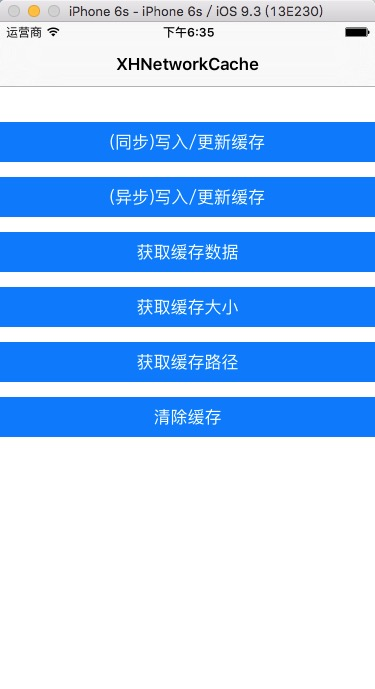
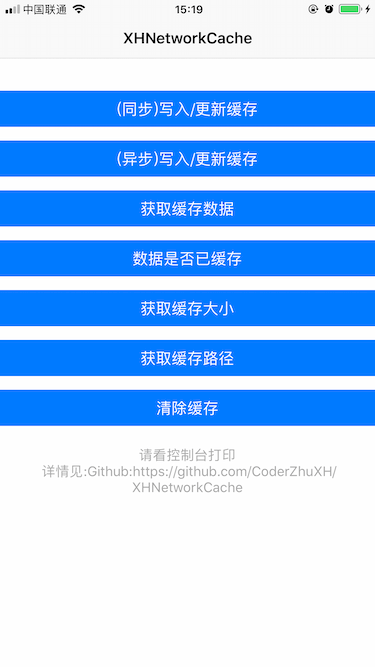
v1.5.0 - 增加检测数据是否已缓存接口

diff --git a/XHNetworkCache/XHNetworkCache.m b/XHNetworkCache/XHNetworkCache.m
@@ -30,7 +30,7 @@
 }
 
 +(void)save_asyncJsonResponseToCacheFile:(id)jsonResponse andURL:(NSString *)URL completed:(nullable XHNetworkCacheCompletionBlock)completedBlock;{
-
+    
     [self save_asyncJsonResponseToCacheFile:jsonResponse andURL:URL params:nil completed:completedBlock];
 }
 
@@ -43,14 +43,14 @@
         dispatch_async(dispatch_get_main_queue(), ^{
             
             if(completedBlock)  completedBlock(result);
-
+            
         });
     });
 }
 
 +(id)cacheJsonWithURL:(NSString *)URL{
     
-   return [self cacheJsonWithURL:URL params:nil];
+    return [self cacheJsonWithURL:URL params:nil];
     
 }
 
@@ -59,12 +59,26 @@
     if(URL==nil) return nil;
     NSString *path = [self cacheFilePathWithURL:URL params:params];
     NSFileManager *fileManager = [NSFileManager defaultManager];
-    if ([fileManager fileExistsAtPath:path isDirectory:nil] == YES) {
+    if([self checkCacheWithURL:URL params:params]){
         NSData *data = [fileManager contentsAtPath:path];
         return [self dataToJson:data];
     }
     return nil;
 }
+
+
++(BOOL)checkCacheWithURL:(NSString *)URL{
+    
+    return [self checkCacheWithURL:URL params:nil];
+}
+
++(BOOL)checkCacheWithURL:(NSString *)URL params:(nullable NSDictionary *)params{
+    if(URL==nil) return NO;
+    NSString *path = [self cacheFilePathWithURL:URL params:params];
+    NSFileManager *fileManager = [NSFileManager defaultManager];
+    return [fileManager fileExistsAtPath:path isDirectory:nil];
+}
+
 
 +(BOOL)clearCache
 {

diff --git a/XHNetworkCache/XHNetworkCache.h b/XHNetworkCache/XHNetworkCache.h
@@ -77,6 +77,20 @@ typedef void(^XHNetworkCacheCompletionBlock)(BOOL result);
  */
 +(id )cacheJsonWithURL:(NSString *)URL params:(nullable NSDictionary *)params;
 
+
+/// 检测是否已缓存该数据
+/// @param URL 数据请求URL
+/// @return YES已缓存, NO未缓存
++(BOOL)checkCacheWithURL:(NSString *)URL;
+
+
+/// 检测是否已缓存该数据
+/// @param URL 数据请求URL
+/// @param params  数据请求参数
+/// @return YES已缓存, NO未缓存
++(BOOL)checkCacheWithURL:(NSString *)URL params:(nullable NSDictionary *)params;
+
+
 /**
  *  获取缓存路径
  *

diff --git a/XHNetworkCacheExample/XHNetworkCacheExample/ViewController.m b/XHNetworkCacheExample/XHNetworkCacheExample/ViewController.m
@@ -98,6 +98,22 @@
     id cacheJson = [XHNetworkCache cacheJsonWithURL:self.URL params:self.params];
     NSLog(@"缓存数据:%@",cacheJson);
 }
+
+/**
+ *  检测数据是否已缓存
+ */
+- (IBAction)checkCache:(UIButton *)sender {
+    
+    BOOL result = [XHNetworkCache checkCacheWithURL:self.URL params:self.params];
+    if(result){
+        NSLog(@"该数据已缓存");
+    }else{
+        NSLog(@"该数据未缓存");
+    }
+}
+
+
+
 /**
  *  缓存数据大小(M)
  */

diff --git a/README.md b/README.md
@@ -17,6 +17,7 @@
 
 ### 更新记录:
 
+*   2020.01.10 -- v1.5.0 -->增加检测该数据是否已缓存接口...
 *   2017.09.30 -- v1.4.0 -->已知问题修复及优化...
 *	2017.06.16 -- v1.3.0 -->缓存及获取缓存接口增加请求参数(可选)...
 *	2016.09.04 -- v1.2.3 -->增加+(NSString *)cacheSizeFormat方法...
@@ -59,26 +60,34 @@
     }];
 
 ```
-### 3.获取缓存数据
+
+### 3.该数据是否已缓存
+```objc
+//获取缓存数据(参数1:请求URL,参数2:请求参数,返回:YES已缓存,NO未缓存)
+ BOOL result = [XHNetworkCache checkCacheWithURL:self.URL params:self.params];
+
+```
+
+### 4.获取缓存数据
 ```objc
 //获取缓存数据(参数1:请求URL,参数2:请求参数,返回:JSON数据)
 id JsonCache = [XHNetworkCache cacheJsonWithURL:self.URL params:self.params];
 
 ```
-### 4.获取缓存路径
+### 5.获取缓存路径
 ```objc
 //获取缓存路径
  NSString *path = [XHNetworkCache cachePath];
 
 ```
-### 5.清除缓存
+### 6.清除缓存
 ```objc
 //清除缓存
 [XHNetworkCache clearCache];
 
 ```
 
-### 6.获取缓存总大小(M)
+### 7.获取缓存总大小(M)
 ```objc
 //获取缓存大小(M)
 float cacheSize = [XHNetworkCache cacheSize];
